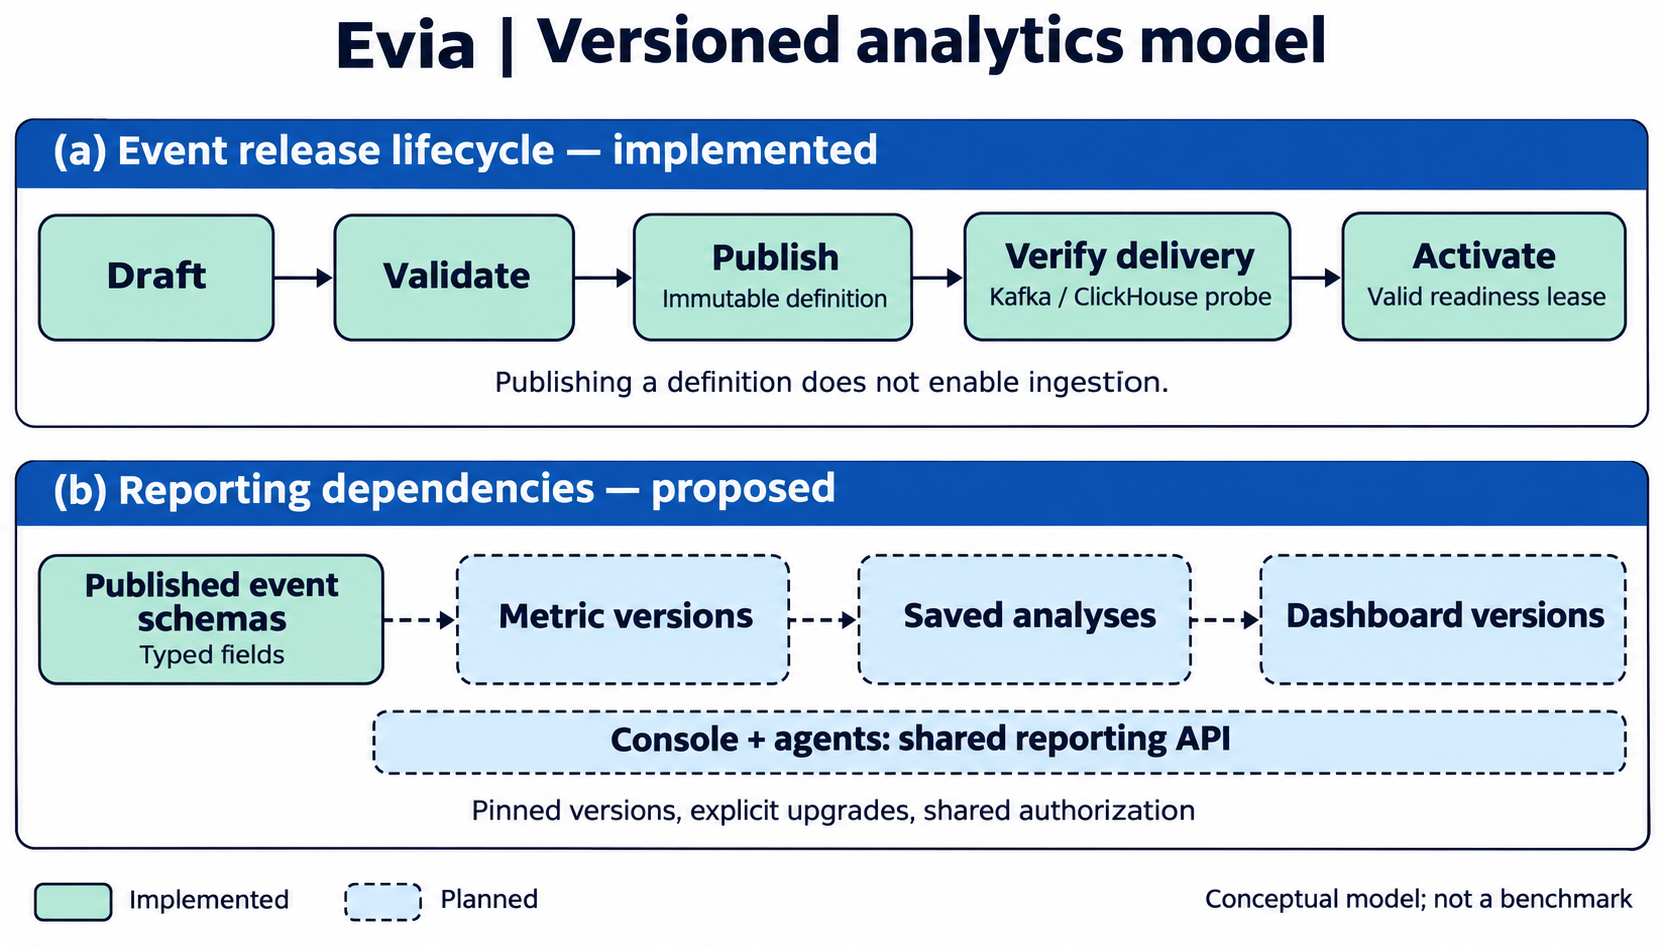
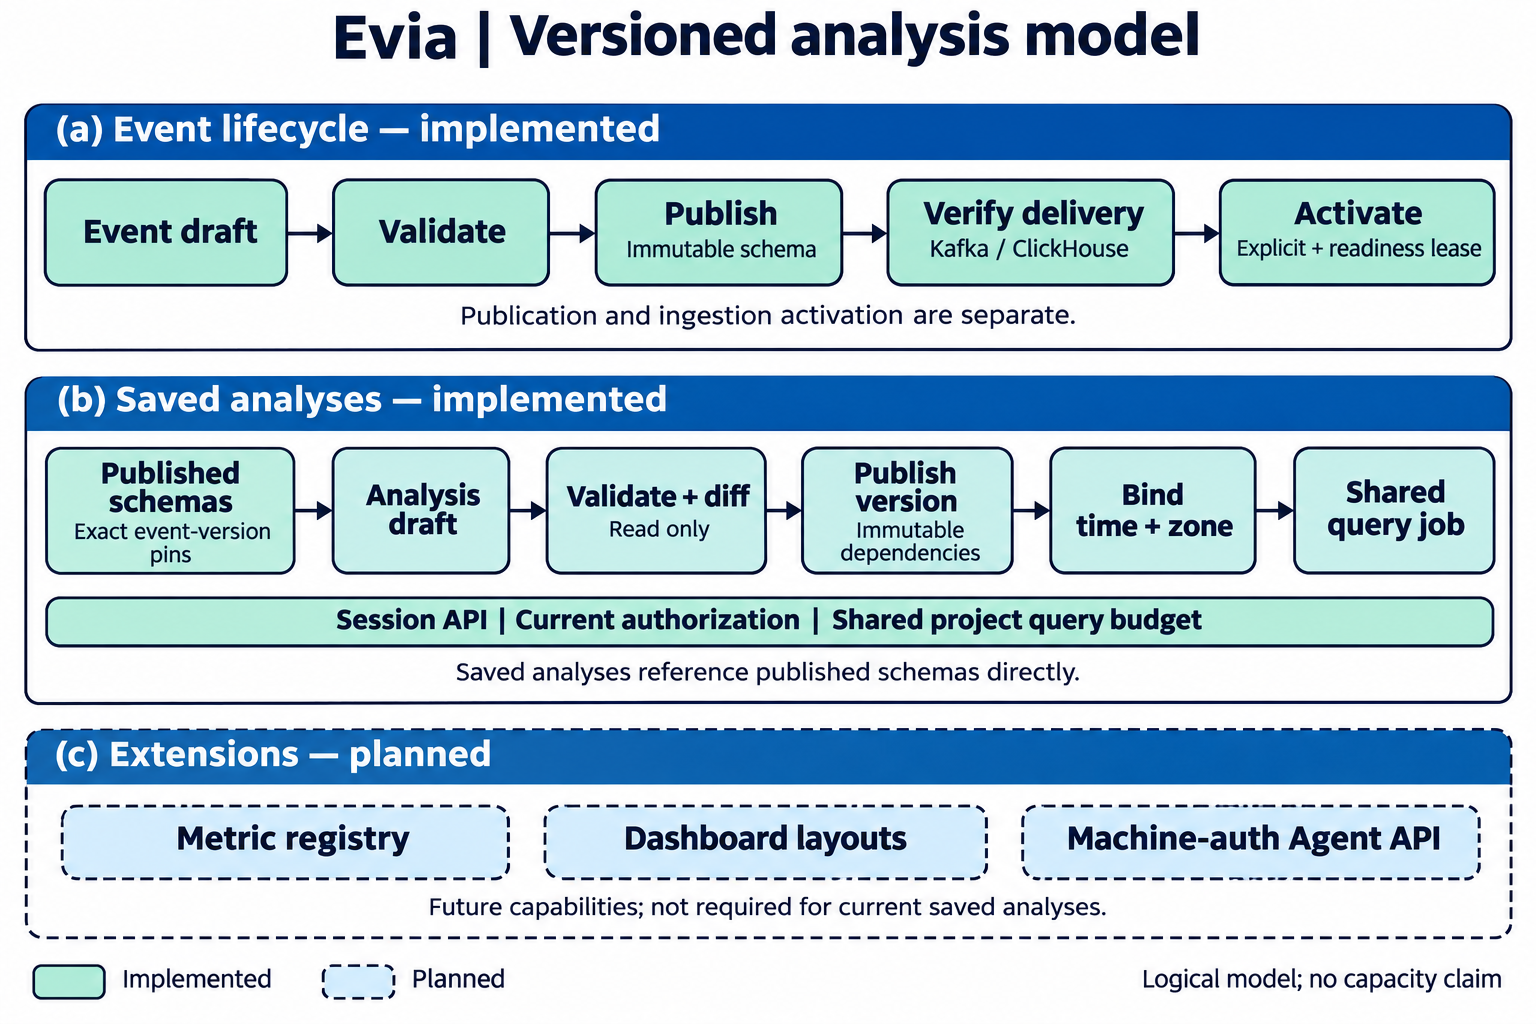
docs(architecture): distinguish saved analyses from planned extensions

diff --git a/docs/assets/README.md b/docs/assets/README.md
@@ -1,11 +1,11 @@
 # README figures
 
-These figures were generated with ImageGen and reviewed against the repository on 2026-11-08 (Asia/Shanghai). They illustrate logical relationships, not measured performance or production capacity. PNG originals are committed locally so the README does not depend on an external image host.
+These figures were generated with ImageGen. The event-data figure was reviewed on 2026-11-08 and the versioned-analysis figure was regenerated and reviewed on 2026-11-09 (Asia/Shanghai). They illustrate logical relationships, not measured performance or production capacity. PNG originals are committed locally so the README does not depend on an external image host.
 
 | Figure                                                     | Meaning                                                                                           | Authoritative references                                                                                                     |
 | ---------------------------------------------------------- | ------------------------------------------------------------------------------------------------- | ---------------------------------------------------------------------------------------------------------------------------- |
 | [Event data architecture](event-data-architecture.png)     | Existing control, ingestion and query flows, with planned SDK, identity processing and dashboards | [Architecture](../architecture.md), [progress](../../PROGRESS.md), [backend evidence](../verification/backend-2026-11-07.md) |
-| [Versioned analytics model](versioned-analytics-model.png) | Existing event release lifecycle and proposed reporting version dependencies                      | [Releases](../releases.md), [dashboard proposal](../plans/custom-dashboards.md)                                              |
+| [Versioned analytics model](versioned-analytics-model.png) | Implemented event lifecycle and directly pinned saved analyses, with planned reporting extensions                      | [Releases](../releases.md), [saved analyses](../saved-analyses.md), [dashboard proposal](../plans/custom-dashboards.md)                                              |
 
 ## Semantics to preserve
 
@@ -13,7 +13,8 @@ These figures were generated with ImageGen and reviewed against the repository o
 - PostgreSQL owns metadata, jobs and bounded query results. Redis provides admission budgets. Kafka buffers events; the ingestion worker writes ClickHouse; the query worker reads it. Repeated database symbols represent the same storage role, not separate instances.
 - The control lane illustrates console access and API responsibilities. The console now also exposes event, release, source and analysis workspaces; the small access label is not an exhaustive page inventory. Consult PROGRESS.md for current feature evidence.
 - Published definitions remain immutable. Real Kafka/ClickHouse delivery verification yields a time-limited readiness lease; activation is explicit. Publishing alone does not authorize ingestion.
-- Metric versions, saved analyses, dashboard versions and the shared reporting API for users and agents are proposed. They are not implemented by adding this diagram.
+- Saved analyses directly pin immutable published event versions. Draft validation/diff is read only; publication is immutable; execution binds real time/timezone and uses the existing shared query budget and current session authorization.
+- The metric registry, dashboard layouts and machine-authenticated Agent API are planned, shown separately with dashed borders. The implemented saved-analysis session API does not imply a machine bearer API or a new console editor.
 
 ## Updating the artwork
 
@@ -21,6 +22,8 @@ Use ImageGen with a white landscape canvas, legible English labels, consistent n
 
 For the architecture figure, retain three independent logical lanes: control, ingestion and analysis. Connect Redis only to ingestion admission. Keep planned extensions in a separate region.
 
-For the versioning figure, retain two panels: the existing draft/validate/publish/verify/activate lifecycle, and the proposed schema/metric/analysis/dashboard dependency chain. Keep the shared reporting API inside the planned region.
+For the versioning figure, retain three panels: implemented event draft/validate/publish/verify/activate; implemented directly schema-pinned saved analysis draft/validate-and-diff/publish/bind-time-and-zone/shared-query-job through the session API; and planned metric registry/dashboard layouts/machine-authenticated Agent API. Do not insert the future metric registry as a required dependency of current saved analyses.
 
 After regeneration, inspect every label, arrow and border against the linked sources. Update README alternative text and captions when semantics change. Numeric evidence belongs in reproducible plots generated from actual measurements, with units and conditions recorded separately.
+
[1 lines of base64/hex data omitted]
